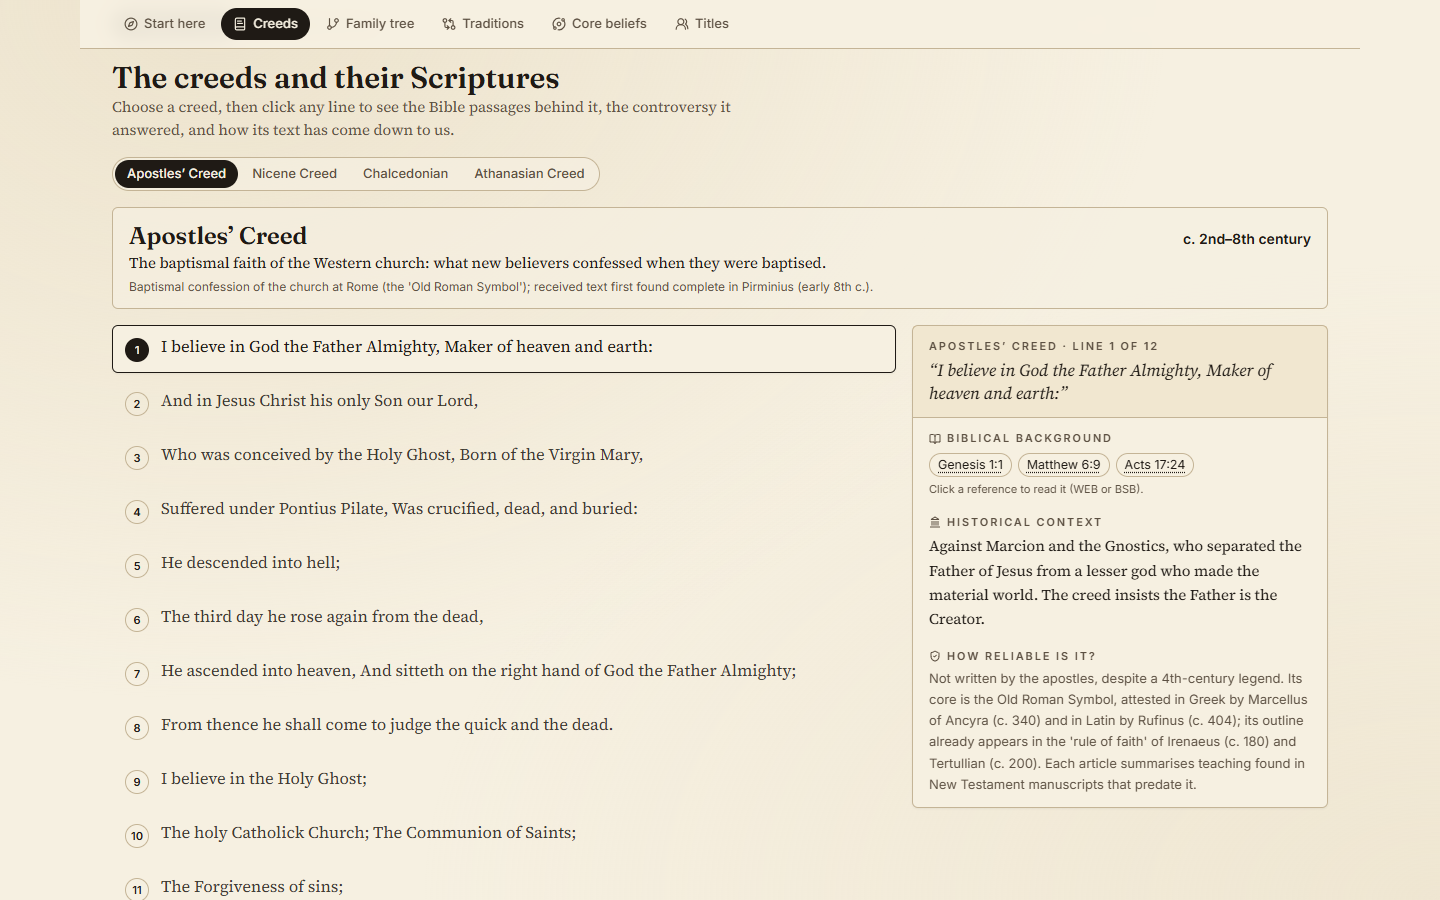
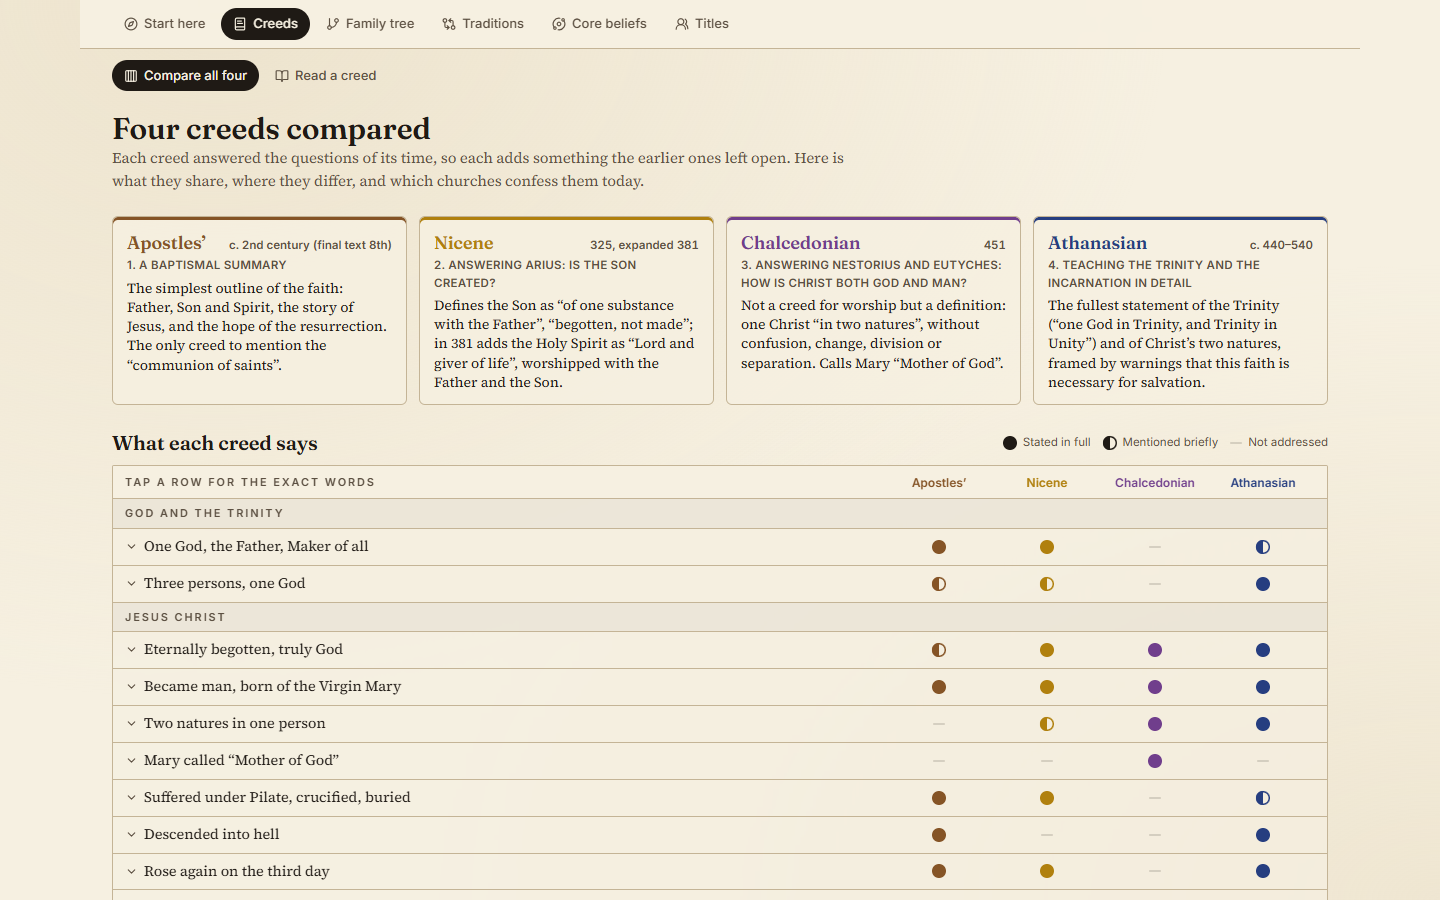
Creeds: "Compare all four" is the default view; "Read a creed" second
- The Creeds tab opens on the side-by-side comparison; reading one creed
  line by line is the second view (#creeds-read links straight to it)
- Start here, intro, home page and README wording follow the new order;
  README creeds screenshot retaken

diff --git a/src/components/history/HistoryPage.tsx b/src/components/history/HistoryPage.tsx
@@ -12,9 +12,10 @@ import { StartHere } from './StartHere';
 import { HistoryIntro } from '../PageIntros';
 import { PageTabs, useHashTab } from '../PageTabs';
 
-/** Creeds tab: read one creed line by line, or compare all four side by side. */
+/** Creeds tab: compare all four side by side (default), or read one creed line by line. */
 function CreedsTab() {
-  const [mode, setMode] = useState<'read' | 'compare'>(() => (window.location.hash === '#creeds-compare' ? 'compare' : 'read'));
+  // Compare first (the big picture), then read any one creed line by line.
+  const [mode, setMode] = useState<'read' | 'compare'>(() => (window.location.hash === '#creeds-read' ? 'read' : 'compare'));
   return (
     <div className="space-y-5">
       <ViewTabs<'read' | 'compare'>
@@ -22,8 +23,8 @@ function CreedsTab() {
         value={mode}
         onChange={setMode}
         tabs={[
-          { id: 'read', label: 'Read a creed', icon: BookOpen },
           { id: 'compare', label: 'Compare all four', short: 'Compare', icon: Columns4 },
+          { id: 'read', label: 'Read a creed', short: 'Read one', icon: BookOpen },
         ]}
       />
       {mode === 'read' ? <CreedExplorer /> : <CreedCompare />}

diff --git a/src/components/HomePage.tsx b/src/components/HomePage.tsx
@@ -64,7 +64,7 @@ const FEATURES: Feature[] = [
     css: '--role-priest',
     art: <HistoryArt />,
     blurb: 'How the church branched, where its traditions differ, what the creeds confess, and who stands outside them.',
-    points: ['A family tree from Pentecost to today', 'Catholic, Orthodox and Protestant compared', 'The four creeds, line by line and side by side'],
+    points: ['A family tree from Pentecost to today', 'Catholic, Orthodox and Protestant compared', 'The four creeds, side by side and line by line'],
     tries: [
       { label: 'Start here: the story simply told', href: 'history.html#start' },
       { label: 'Compare two traditions', href: 'history.html#traditions' },

diff --git a/src/components/PageIntros.tsx b/src/components/PageIntros.tsx
@@ -154,7 +154,7 @@ export function HistoryIntro() {
           kicker: 'Creeds & boundaries',
           body: (
             <>
-              {tab('creeds', 'Creeds')}: four historic creeds, line by line and side by side. {tab('compare', 'Core beliefs')}: the families of
+              {tab('creeds', 'Creeds')}: four historic creeds, side by side and line by line. {tab('compare', 'Core beliefs')}: the families of
               churches that share that faith, their member churches, and how other movements differ.
             </>
           ),

diff --git a/src/components/history/StartHere.tsx b/src/components/history/StartHere.tsx
@@ -48,7 +48,7 @@ const STEPS: Step[] = [
       { w: 'Trinity', d: 'one God in three persons: Father, Son and Holy Spirit' },
     ],
     refs: ['Matthew 28:19', 'John 1:1'],
-    next: [{ tab: 'creeds', label: 'Read the creeds, line by line' }],
+    next: [{ tab: 'creeds', label: 'Compare the four creeds' }],
   },
   {
     era: '431 – 1054',

diff --git a/README.md b/README.md
@@ -91,7 +91,7 @@ The Church History page works like a short course: six tabs in learning order, w
 - **Start here.** Church history simply told, in six steps (one church; agreeing on the creeds; the first splits; the Reformation; different churches, one core faith; who's who), each with a key idea, simple definitions, and a button to the tab that goes deeper.
 - **Family tree.** Thirteen traditions on one timeline, from Pentecost to the non-denominational churches. Click a branch to see what it shares with all Christians, what is distinctive to it, and which traditions grew from it.
 - **Traditions.** Seven traditions (Catholic, Orthodox, Lutheran, Anglican, Reformed, Baptist, Pentecostal) on ten questions such as authority, salvation, the Lord's Supper, baptism and Mary. An "at a glance" grid puts every tradition on one line per question; tap a question for why it matters, how the disagreement arose (with dates), each tradition's position in order, key terms, and the passages each side cites. Tap two traditions to highlight them and see where they agree, are close or differ. The tab opens with the common ground every tradition shares and the worldwide numbers from Pew Research.
-- **Creeds.** The Apostles', Nicene, Chalcedonian and Athanasian creeds, line by line, or all four compared: what each added, a clause-by-clause table with each creed's own words, and which churches confess which creed. Each line comes with the Bible passages behind it, the controversy it answered, and a note on how reliable its text is.
+- **Creeds.** The Apostles', Nicene, Chalcedonian and Athanasian creeds, compared side by side (the default view) or read one at a time, line by line. The comparison shows what each added, a clause-by-clause table with each creed's own words, and which churches confess which creed. Each line comes with the Bible passages behind it, the controversy it answered, and a note on how reliable its text is.
 - **Core beliefs.** A diagram with the faith of the creeds at its centre. Inside the circle are the four families of churches (Catholic, Eastern Orthodox, Oriental Orthodox, Protestant), each with member churches: the Latin, Maronite, Ukrainian Greek and Syro-Malabar Catholic churches; the Russian, Greek, Serbian and Romanian Orthodox; the Coptic, Ethiopian and Armenian churches; and the Lutheran, Reformed, Anglican, Methodist, Baptist, Pentecostal, Anabaptist and Adventist families (with Grace Communion). Movements whose teaching differs sit beyond the circle, farther out the more of five core beliefs they set aside. A creed lens shows who confesses the Apostles', Nicene, Chalcedonian or Athanasian Creed. Below it, a detailed table compares six benchmarks across historic orthodoxy, 4th-century Arianism, Jehovah's Witnesses, Latter-day Saints, Oneness Pentecostalism and Christian Science.
 - **Titles.** Who's who from pope to pastor: a ladder of titles for each of the four families used on Core beliefs (Catholic, Eastern Orthodox, Oriental Orthodox, and Protestant with its Anglican, Lutheran, Presbyterian, Methodist and Baptist/Pentecostal branches), and a card for each title (its original-language meaning, where it is used, Scripture, and sources such as the Code of Canon Law, the Catechism, the Rule of St Benedict and Crockford's Clerical Directory).
 
